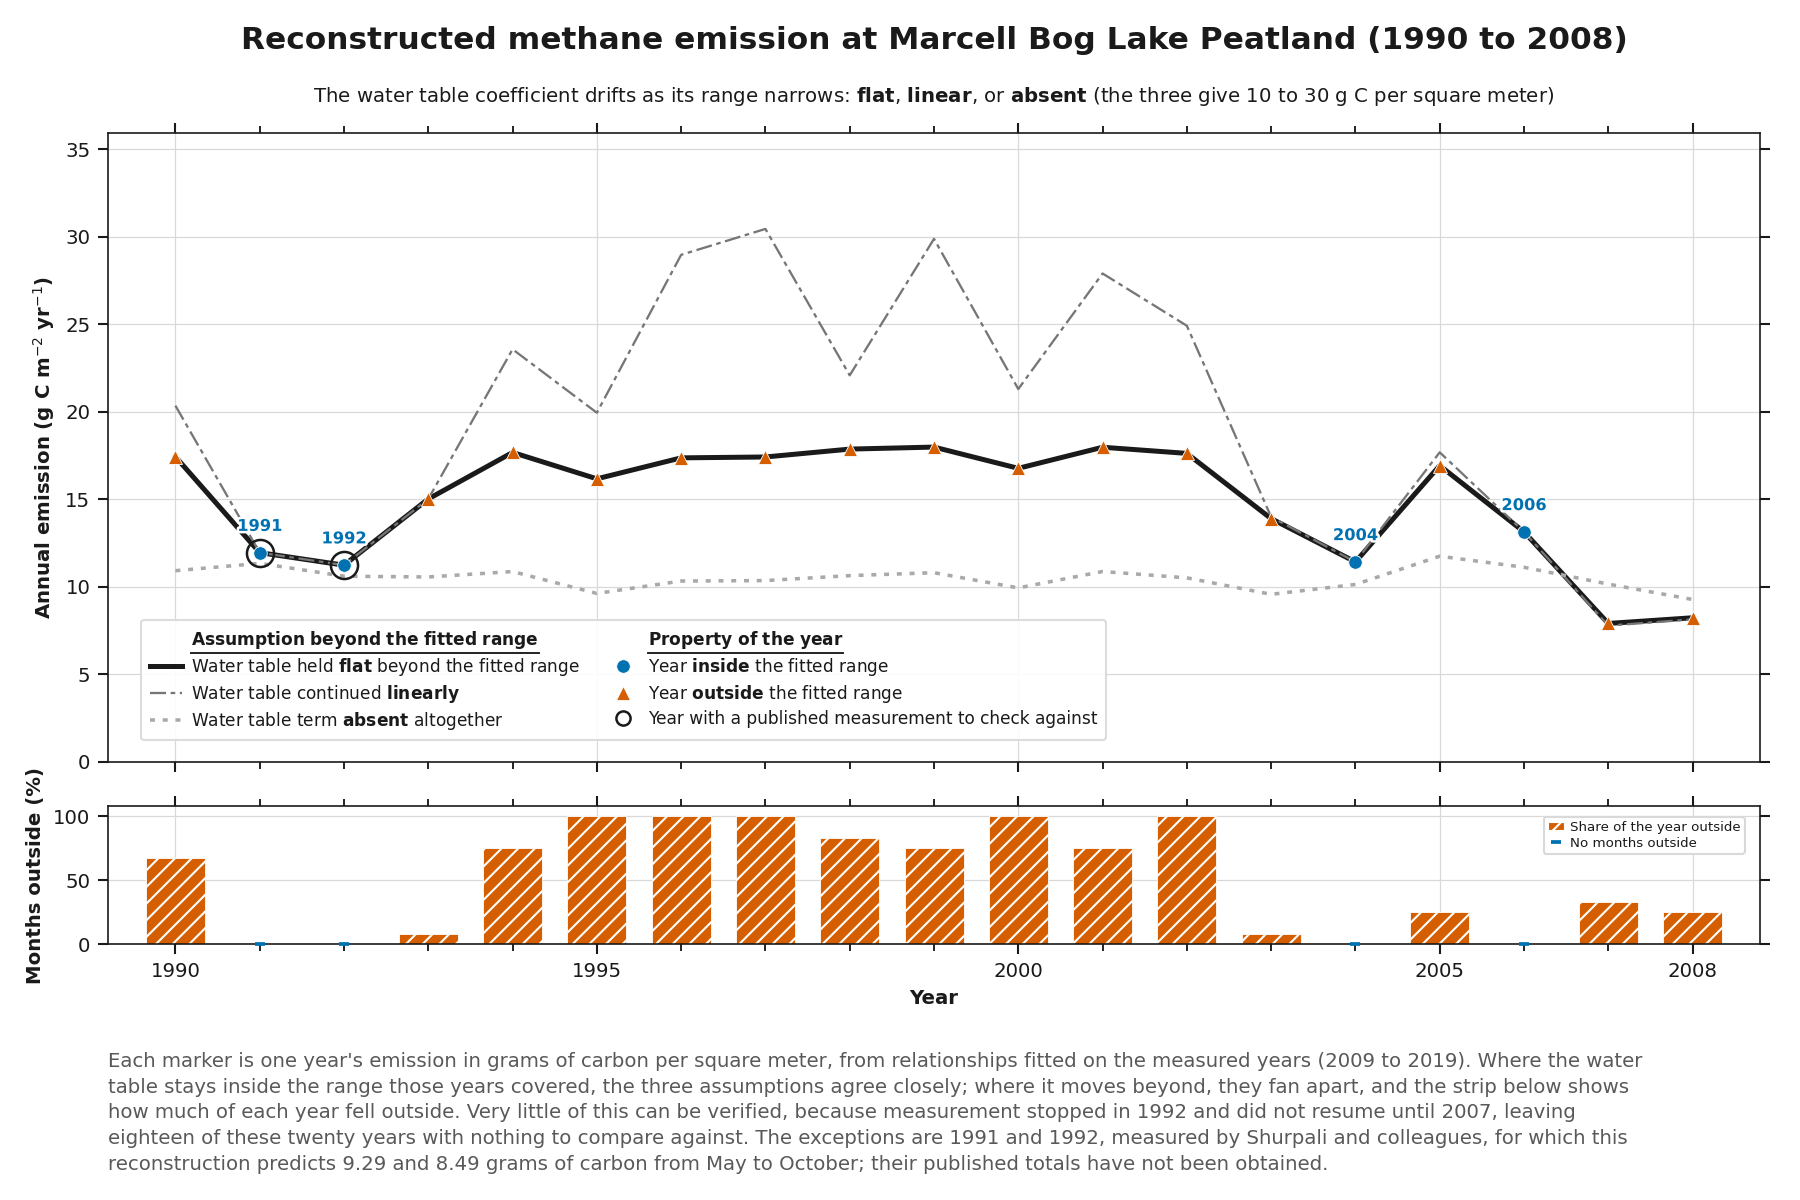
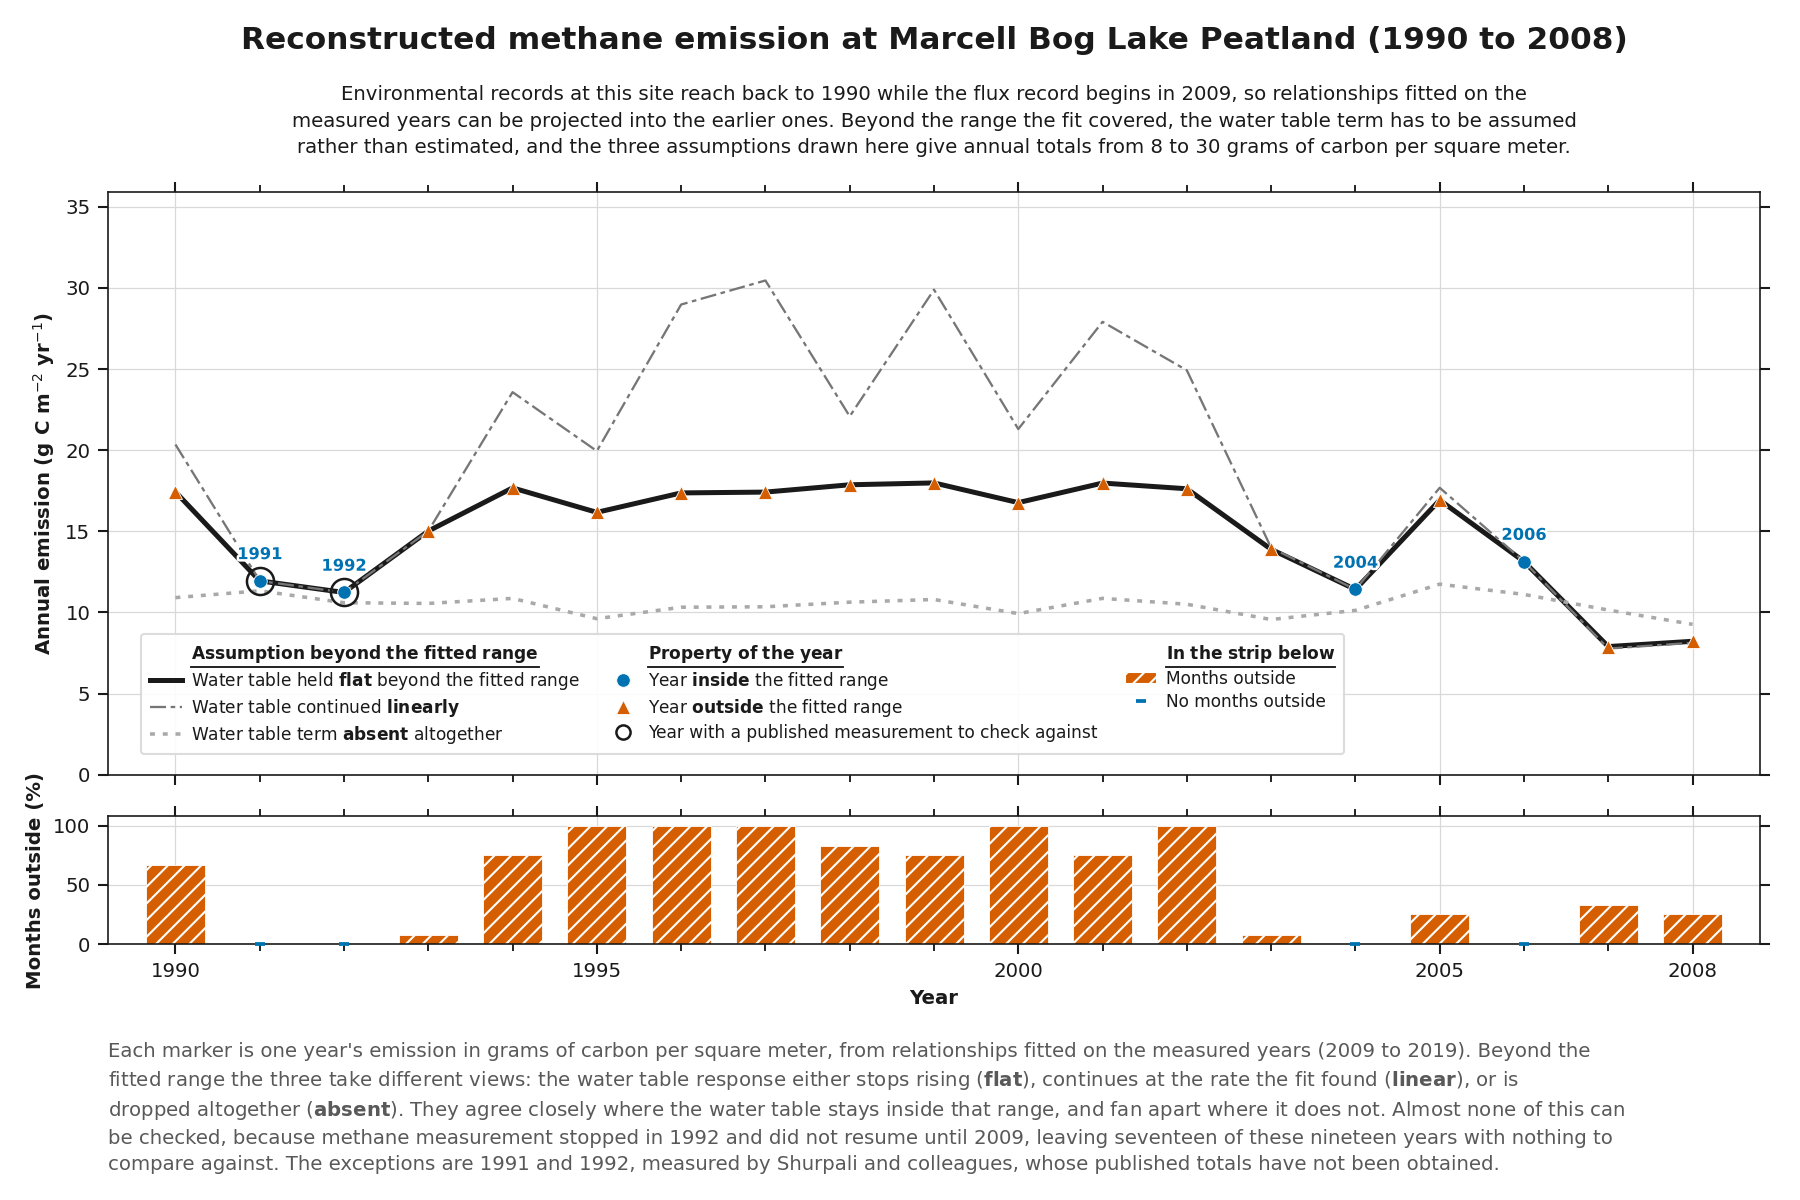
Correct three numbers on the reconstruction figure and consolidate its key
The subtitle said the three assumptions give 10 to 30 g C per square meter.
Across the nineteen plotted years they run 7.77 to 30.46, so the floor was
wrong by more than two grams. The 10 is close to the absent variant's own floor
of 9.27, which suggests it was read off that line rather than off all three.

The description said eighteen of twenty years have nothing to compare against.
The figure plots nineteen, and two carry a published measurement, so it is
seventeen of nineteen; twenty is the reconstruction window's calendar span,
which is not what the figure draws. It also said measurement did not resume
until 2007. For methane it resumed in 2009, and 2007 is the carbon dioxide
start.

The subtitle now leads with why the reconstruction exists at all, which nothing
on the figure said: the environmental records reach back nineteen years further
than the flux. It drops the colon, and it drops a finding borrowed from the
coefficient stability figure, which is where the coefficient's drift is
demonstrated rather than here.

The description explains the three assumptions instead of leaving them named
only in the key, tying each clause to its entry so the curves become
identifiable. The Shurpali point estimates come out: they are correct, but the
notes already carry them with their sensitivity spans, so the figure held the
weaker copy. The status stays, since that is what the circled years mean.

The strip's key had to be set at 6.4 pt to fit between its bars and its frame,
[…]

diff --git a/src/study/figures.py b/src/study/figures.py
@@ -153,20 +153,24 @@ LAST_PLOTTED_YEAR = 2008
 RECONSTRUCTION_TEXT = ps.FigureText(
     title="Reconstructed methane emission at Marcell Bog Lake Peatland (1990 to 2008)",
     subtitle=(
-        "The water table coefficient drifts as its range narrows: flat, linear, or "
-        "absent (the three give 10 to 30 g C per square meter)"
+        "Environmental records at this site reach back to 1990 while the flux record "
+        "begins in 2009, so relationships fitted on the measured years can be "
+        "projected into the earlier ones. Beyond the range the fit covered, the water "
+        "table term has to be assumed rather than estimated, and the three "
+        "assumptions drawn here give annual totals from 8 to 30 grams of carbon per "
+        "square meter."
     ),
     description=(
-        "Each marker is one year's emission in grams of carbon per square meter, "
-        "from relationships fitted on the measured years (2009 to 2019). Where the "
-        "water table stays inside the range those years covered, the three "
-        "assumptions agree closely; where it moves beyond, they fan apart, and the "
-        "strip below shows how much of each year fell outside. Very little of this "
-        "can be verified, because measurement stopped in 1992 and did not resume "
-        "until 2007, leaving eighteen of these twenty years with nothing to compare "
-        "against. The exceptions are 1991 and 1992, measured by Shurpali and "
-        "colleagues, for which this reconstruction predicts 9.29 and 8.49 grams of "
-        "carbon from May to October; their published totals have not been obtained."
+        "Each marker is one year's emission in grams of carbon per square meter, from "
+        "relationships fitted on the measured years (2009 to 2019). Beyond the fitted "
+        "range the three take different views: the water table response either stops "
+        "rising (flat), continues at the rate the fit found (linear), or is dropped "
+        "altogether (absent). They agree closely where the water table stays inside "
+        "that range, and fan apart where it does not. Almost none of this can be "
+        "checked, because methane measurement stopped in 1992 and did not resume "
+        "until 2009, leaving seventeen of these nineteen years with nothing to "
+        "compare against. The exceptions are 1991 and 1992, measured by Shurpali and "
+        "colleagues, whose published totals have not been obtained."
     ),
     emphasize=("flat", "linear", "absent"),
 )
@@ -242,9 +246,18 @@ def reconstruction_series(annual: pd.DataFrame) -> Figure:
                 (r"Year $\bf{inside}$ the fitted range",
                  r"Year $\bf{outside}$ the fitted range")]
     entries += [(measured_key, measured_key.get_label())]
+    # The strip's two marks join this key rather than carrying their own. A
+    # separate legend down there had to be set at 6.4 pt to fit between the bars
+    # and the frame, which is below anything else in the set and too small to
+    # read. Named to match the strip's axis, so one quantity has one name.
+    entries += [(blank, r"$\bf{In\ the\ strip\ below}$")]
+    entries += [(Patch(facecolor=ps.OUTSIDE, edgecolor="white", hatch=ps.OUTSIDE_HATCH),
+                 "Months outside"),
+                (Line2D([], [], linestyle="none", marker="_", markersize=5.2,
+                        markeredgewidth=1.8, color=ps.INSIDE), "No months outside")]
     ps.legend(ax, handles=[h for h, _ in entries], labels=[label for _, label in entries],
               loc="lower left", fontsize=8.2, borderpad=0.5, labelspacing=0.3,
-              handlelength=1.9, handletextpad=0.5, ncols=2, columnspacing=1.6,
+              handlelength=1.9, handletextpad=0.5, ncols=3, columnspacing=1.6,
               bbox_to_anchor=(0.015, 0.02))
 
     share = frame["pct_months_outside"].to_numpy()
@@ -259,22 +272,6 @@ def reconstruction_series(annual: pd.DataFrame) -> Figure:
                markersize=5.2, markeredgewidth=1.8, color=ps.INSIDE,
                clip_on=False, zorder=4)
 
-    # The strip carries two marks a reader cannot otherwise name: the hatching,
-    # and a flat mark that means a measured zero rather than a missing year.
-    strip_key = [
-        Patch(facecolor=ps.OUTSIDE, edgecolor="white", hatch=ps.OUTSIDE_HATCH,
-              label="Share of the year outside"),
-        Line2D([], [], linestyle="none", marker="_", markersize=5.2,
-               markeredgewidth=1.8, color=ps.INSIDE,
-               label="No months outside"),
-    ]
-    # Inside the frame, in the block the last six years leave clear. The strip is
-    # a secondary element and should not gain height to carry its own key, so the
-    # key is made small enough to fit what the bars already leave.
-    ps.legend(strip, handles=strip_key, labels=[h.get_label() for h in strip_key],
-              loc="upper right", ncols=1, fontsize=6.4, borderpad=0.3,
-              labelspacing=0.2, handlelength=1.3, handletextpad=0.4,
-              framealpha=1.0, bbox_to_anchor=(0.995, 0.97))
     strip.set_ylim(0, 108)
     strip.set_yticks([0, 50, 100])
     strip.set_ylabel(ps.axis_label("Months outside", "%"))
@@ -284,6 +281,7 @@ def reconstruction_series(annual: pd.DataFrame) -> Figure:
     ps.mirror_ticks(strip)
 
     _underline_legend_headings(fig, ax)
+    ps.balance_drawing_block(fig, ax, strip)
 
     return fig
 

diff --git a/src/study/plotstyle.py b/src/study/plotstyle.py
@@ -520,7 +520,7 @@ def canvas_area(text: FigureText, size: str = "wide", extra_left_px: int = 0,
     return fig, (left, axes_bottom, right - left, axes_top - axes_bottom)
 
 
-def balance_drawing_block(fig: Figure, ax: plt.Axes) -> None:
+def balance_drawing_block(fig: Figure, *axes: plt.Axes) -> None:
     """Give the drawing block the same air above it as below it.
 
     The gap above is what the title and subtitle blocks leave; the gap below is
@@ -537,6 +537,10 @@ def balance_drawing_block(fig: Figure, ax: plt.Axes) -> None:
     text does not use are not a reservation to defend, and the panel claims
     them.
 
+    Pass every panel in the block. A figure whose panels are stacked grows as a
+    unit and keeps the proportions between them, so a strip stays the fraction
+    of the block it was given rather than absorbing the whole gain.
+
     Call after everything else is drawn on the axes, since the lower gap is
     measured to the tick labels and axis title rather than the frame.
     """
@@ -544,17 +548,27 @@ def balance_drawing_block(fig: Figure, ax: plt.Axes) -> None:
     renderer = fig.canvas.get_renderer()
     height_px = fig.get_size_inches()[1] * fig.dpi
     subtitle, description = fig.texts[1], fig.texts[2]
-    frame = ax.get_window_extent(renderer)
-    furniture = ax.get_tightbbox(renderer)
-    above = subtitle.get_window_extent(renderer).y0 - frame.y1
-    below = furniture.y0 - description.get_window_extent(renderer).y1
-    box = ax.get_position()
+    frames = [ax.get_window_extent(renderer) for ax in axes]
+    furniture = [ax.get_tightbbox(renderer) for ax in axes]
+    above = subtitle.get_window_extent(renderer).y0 - max(f.y1 for f in frames)
+    below = min(f.y0 for f in furniture) - description.get_window_extent(renderer).y1
+    grow = abs(above - below) / height_px
+    if grow < 1e-9:
+        return
+
+    boxes = [ax.get_position() for ax in axes]
+    floor = min(b.y0 for b in boxes)
+    ceiling = max(b.y1 for b in boxes)
+    span = ceiling - floor
     if below > above:
-        grow = (below - above) / height_px
-        ax.set_position((box.x0, box.y0 - grow, box.width, box.height + grow))
-    elif above > below:
-        grow = (above - below) / height_px
-        ax.set_position((box.x0, box.y0, box.width, box.height + grow))
+        # The block drops its floor and stretches down into the gap.
+        base, scale = floor - grow, (span + grow) / span
+    else:
+        # The block keeps its floor and stretches up.
+        base, scale = floor, (span + grow) / span
+    for ax, box in zip(axes, boxes):
+        ax.set_position((box.x0, base + (box.y0 - floor) * scale,
+                         box.width, box.height * scale))
 
 
 def canvas(text: FigureText, size: str = "wide") -> tuple[Figure, plt.Axes]:

diff --git a/tests/test_figures.py b/tests/test_figures.py
@@ -206,25 +206,37 @@ def test_a_year_with_no_months_outside_is_marked_flat_and_in_blue():
     ps.plt.close(fig)
 
 
-def test_the_strip_names_both_of_its_marks():
-    """The hatching and the flat mark are otherwise unexplained."""
+def test_the_figure_carries_one_key_and_it_names_the_strip_marks():
+    """The hatching and the flat mark are otherwise unexplained.
+
+    They used to be keyed by a second legend inside the strip, which had to be
+    set at 6.4 pt to fit between the bars and the frame, below anything else in
+    the set. They are a headed group in the panel's key instead, so the figure
+    carries one legend at one size.
+    """
     fig = figures.reconstruction_series(annual_frame())
-    labels = [t.get_text() for t in fig.axes[1].get_legend().get_texts()]
-    assert any("Share of the year outside" in label for label in labels)
-    assert any("No months outside" in label for label in labels)
+    assert fig.axes[1].get_legend() is None, "the strip carries no key of its own"
+    labels = [t.get_text() for t in fig.axes[0].get_legend().get_texts()]
+    assert "Months outside" in labels, labels
+    assert "No months outside" in labels, labels
     ps.plt.close(fig)
 
 
-def test_the_strip_legend_fits_inside_the_frame_without_covering_a_bar():
-    """The strip is secondary and must not gain height to carry its own key."""
+def test_the_strip_bar_is_named_what_the_strip_axis_names():
+    """One quantity, one name. The key said share of the year and the axis said
+    months outside, which are the same thing counted the same way."""
     fig = figures.reconstruction_series(annual_frame())
-    fig.canvas.draw()
+    labels = [t.get_text() for t in fig.axes[0].get_legend().get_texts()]
+    assert "Months outside" in fig.axes[1].get_ylabel()
+    assert "Months outside" in labels
+    ps.plt.close(fig)
+
+
+def test_a_year_wholly_inside_is_drawn_as_a_zero_and_not_omitted():
+    """A measured zero is not a missing year, so the strip marks it."""
+    fig = figures.reconstruction_series(annual_frame())
     strip = fig.axes[1]
-    frame = strip.get_window_extent()
-    legend = strip.get_legend().get_window_extent()
-    assert legend.y1 <= frame.y1 and legend.y0 >= frame.y0, "the legend leaves the frame"
-    box = legend.transformed(strip.transData.inverted())
-    under = [bar.get_height() for bar in strip.patches
-             if box.x0 <= bar.get_x() + bar.get_width() / 2 <= box.x1]
-    assert box.y0 > max(under, default=0.0), "the legend covers a bar"
+    flat = [line for line in strip.lines if line.get_marker() == "_"]
+    assert flat, "no zero marks drawn"
+    assert (flat[0].get_ydata() == 0).all()
     ps.plt.close(fig)

diff --git a/figures/README_fragments.md b/figures/README_fragments.md
@@ -18,9 +18,9 @@ Panel a is the peatland around the tower. The white outline is the wetland the N
 
 ![Reconstructed methane emission at Marcell Bog Lake Peatland (1990 to 2008)](figures/reconstruction_series.png)
 
-**The water table coefficient drifts as its range narrows: flat, linear, or absent (the three give 10 to 30 g C per square meter)**
+**Environmental records at this site reach back to 1990 while the flux record begins in 2009, so relationships fitted on the measured years can be projected into the earlier ones. Beyond the range the fit covered, the water table term has to be assumed rather than estimated, and the three assumptions drawn here give annual totals from 8 to 30 grams of carbon per square meter.**
 
-Each marker is one year's emission in grams of carbon per square meter, from relationships fitted on the measured years (2009 to 2019). Where the water table stays inside the range those years covered, the three assumptions agree closely; where it moves beyond, they fan apart, and the strip below shows how much of each year fell outside. Very little of this can be verified, because measurement stopped in 1992 and did not resume until 2007, leaving eighteen of these twenty years with nothing to compare against. The exceptions are 1991 and 1992, measured by Shurpali and colleagues, for which this reconstruction predicts 9.29 and 8.49 grams of carbon from May to October; their published totals have not been obtained.
+Each marker is one year's emission in grams of carbon per square meter, from relationships fitted on the measured years (2009 to 2019). Beyond the fitted range the three take different views: the water table response either stops rising (flat), continues at the rate the fit found (linear), or is dropped altogether (absent). They agree closely where the water table stays inside that range, and fan apart where it does not. Almost none of this can be checked, because methane measurement stopped in 1992 and did not resume until 2009, leaving seventeen of these nineteen years with nothing to compare against. The exceptions are 1991 and 1992, measured by Shurpali and colleagues, whose published totals have not been obtained.
 
 ### Monthly methane and carbon dioxide forecast error at Marcell Bog Lake Peatland
 

diff --git a/notes/study.md b/notes/study.md
@@ -820,6 +820,38 @@ of 14.40 on the nominal window. Both were produced by fitting a
 short flux record and projecting backward, so this is method agreement and not
 independent confirmation.
 
+## Three errors the reconstruction figure carried
+
+**The subtitle said the three assumptions give 10 to 30 g C per square meter.**
+Across the nineteen plotted years they run 7.77 to 30.46: held flat 7.90 to
+17.98, continued linearly 7.77 to 30.46, term absent 9.27 to 11.74. The floor
+was wrong by more than two grams. The 10 is close to the absent variant's own
+floor of 9.27, which suggests it was once read off that line rather than off all
+three. It now says 8 to 30.
+
+**It said eighteen of twenty years have nothing to compare against.** The figure
+plots nineteen years, 1990 to 2008 inclusive, and two carry a published
+measurement, so it is seventeen of nineteen. Twenty is the reconstruction
+window's calendar span, 1990 to 2009, which is not what the figure draws.
+
+**It said measurement did not resume until 2007.** For methane it resumed in
+2009: the monthly index opens 2009-04, and the Shurpali seasons are recorded
+here as seventeen years before the flux record begins, which is 1992 plus
+seventeen. 2007 is the carbon dioxide start, and this is a methane figure.
+
+The Shurpali point estimates left the description. They were 9.29 and 8.49 g C
+for May to October, which are correct and are already recorded above with their
+sensitivity spans, so the figure was carrying the weaker copy of something the
+notes hold better. The description keeps the status, that no published total has
+been obtained, because that is what the two circled years mean.
+
+One thing the wording must keep refusing: the fan is not an uncertainty range.
+The literature convention describes scenario spreads as spanning a conservative
+uncertainty range, and this study rejects that reading. The spread is what the
+choice of assumption buys, and the record cannot test the choice. That is why
+the three are drawn as named lines and never as a band, and why the subtitle
+says the term has to be assumed rather than estimated.
+
 ## The pending independent validation
 
 Shurpali, N. J., Verma, S. B., Clement, R. J., and Billesbach, D. P. (1993),
